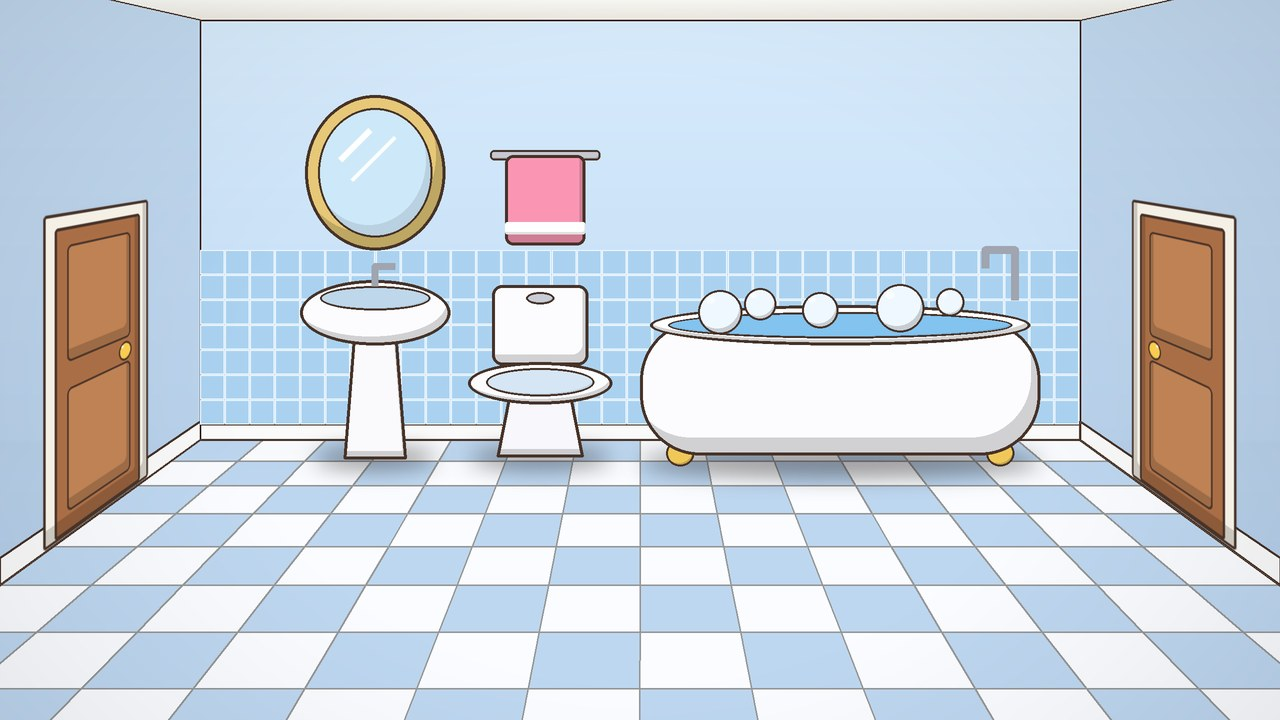
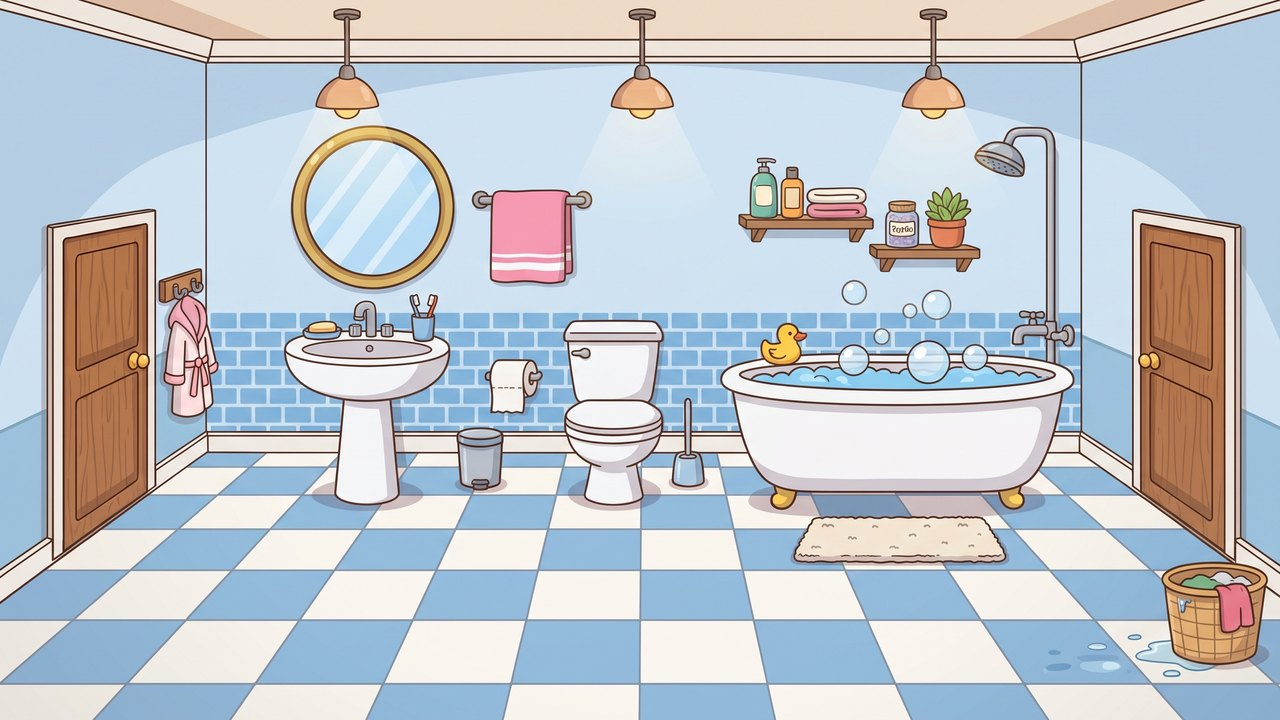
Banyo: yeni resim, küvet önü yeni küvete göre, musluklar ve klozet yeni yerinde
Claude-Session: https://claude.ai/code/session_01FSkVF6b9FMUcpnurV8yuFZ

diff --git a/js/veri.js b/js/veri.js
@@ -266,20 +266,21 @@ window.OYUN_VERI = {
       ad: "Banyo", simge: "ev", ev: "ev1",
       resim: "cizimler/mekan/banyo.jpg", zemin: ZEMIN, giris: GIRIS_SOL,
       kapilar: [
-        { ...KAPI_SOL, hedef: "mutfak", giris: GIRIS_SAG },
-        { ...KAPI_SAG, hedef: "yatak", giris: GIRIS_SOL },
+        { x: 48, y: 210, w: 110, h: 345, hedef: "mutfak", giris: GIRIS_SAG },
+        { x: 1130, y: 210, w: 112, h: 300, hedef: "yatak", giris: GIRIS_SOL },
       ],
       noktalar: [
-        { tur: "musluk", x: 300, y: 255, w: 150, h: 90, su: { x: 393, y: 270, boy: 30 } },
-        { tur: "musluk", x: 950, y: 235, w: 95, h: 95, su: { x: 985, y: 270, boy: 45 } },
+        { tur: "musluk", x: 330, y: 290, w: 90, h: 55, su: { x: 373, y: 322, boy: 20 } },
+        { tur: "musluk", x: 1000, y: 305, w: 80, h: 50, su: { x: 1021, y: 336, boy: 36 } },
         {
-          tur: "kuvet", x: 640, y: 200, w: 400, h: 260,
-          resim: "cizimler/mekan/kuvet-on.png", x0: 637, y0: 303,
-          su: 326, dip: 442, yerler: [{ x: 765 }, { x: 915 }],
+          tur: "kuvet", x: 720, y: 300, w: 355, h: 200,
+          resim: "cizimler/mekan/kuvet-on.png", x0: 715, y0: 345,
+          su: 372, dip: 492, yerler: [{ x: 825 }, { x: 970 }],
         },
-        { tur: "klozet", x: 460, y: 270, w: 160, h: 200, oturma: { x: 540, y: 448 } },
+        { tur: "klozet", x: 555, y: 320, w: 115, h: 185, oturma: { x: 613, y: 483 } },
       ],
     },
+
     yatak: {
       ad: "Yatak odası", simge: "ev", ev: "ev1",
       resim: "cizimler/mekan/yatak.jpg", zemin: ZEMIN, giris: GIRIS_SOL,
